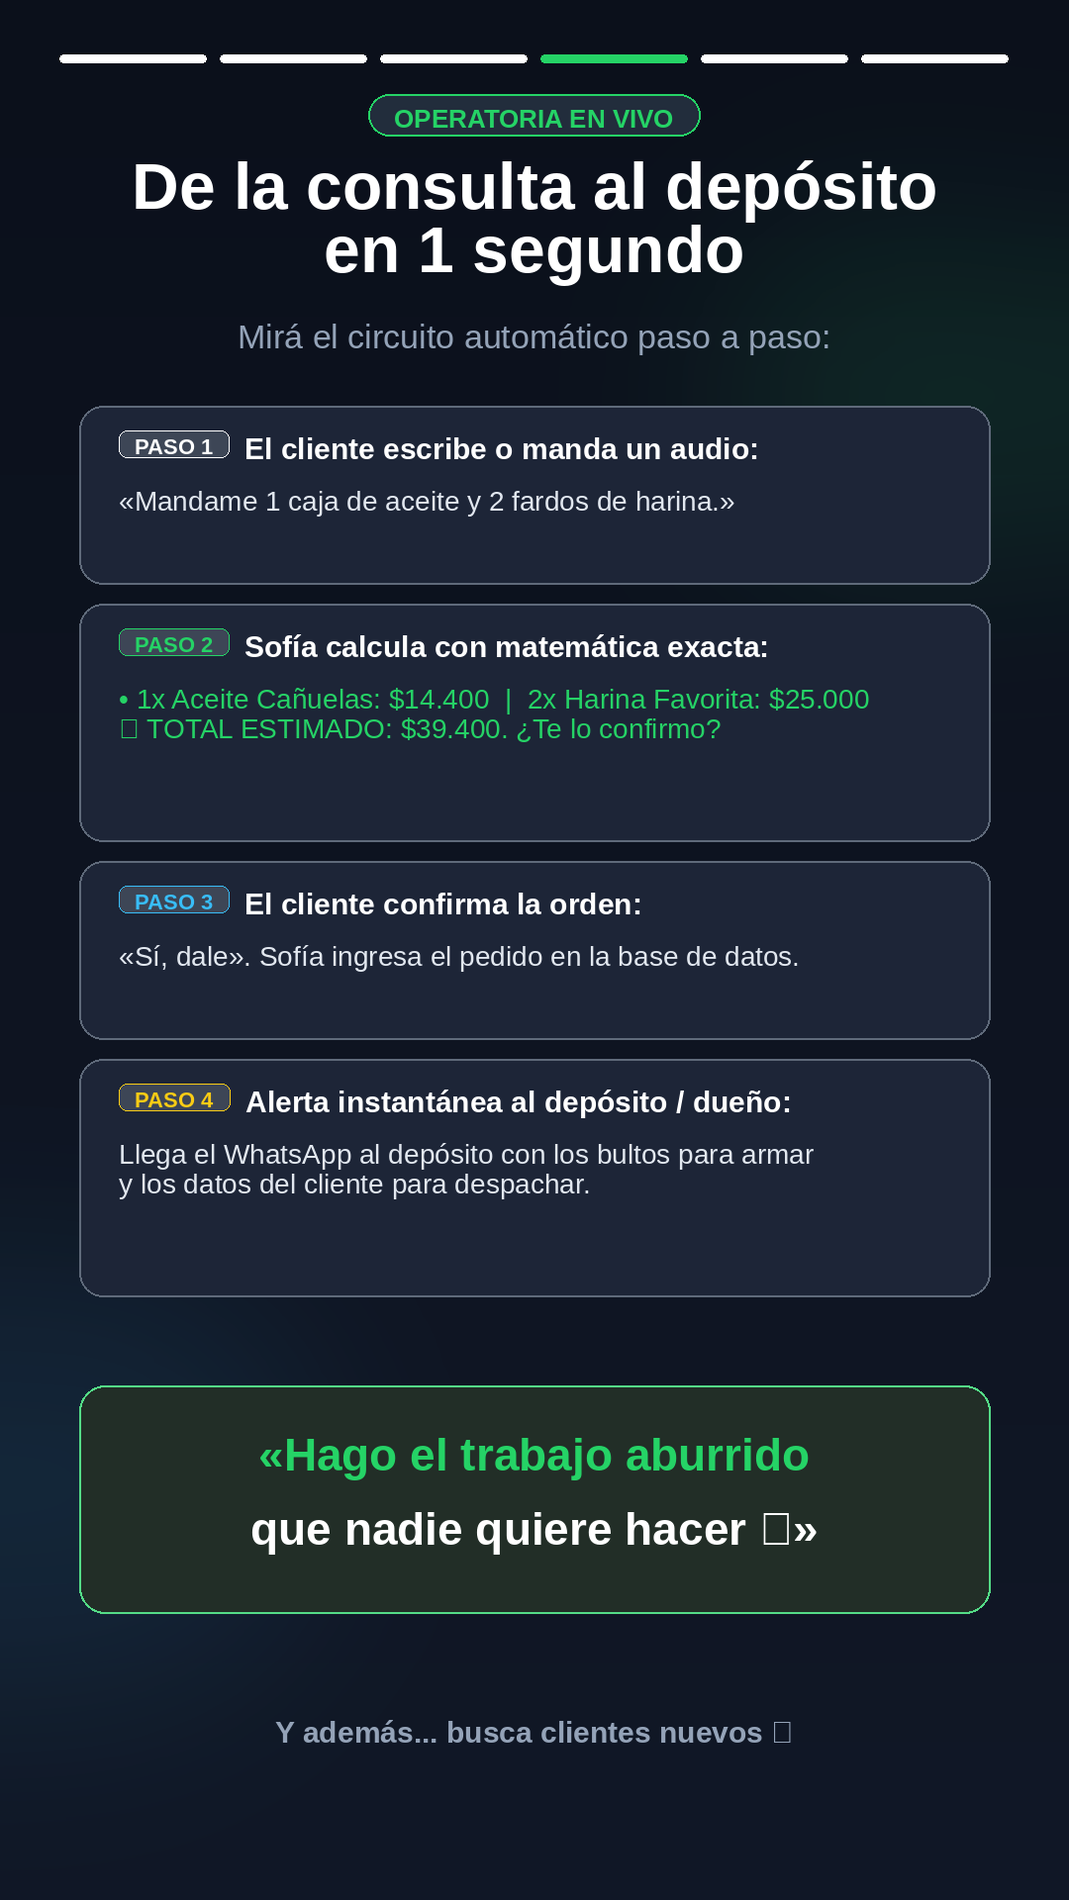
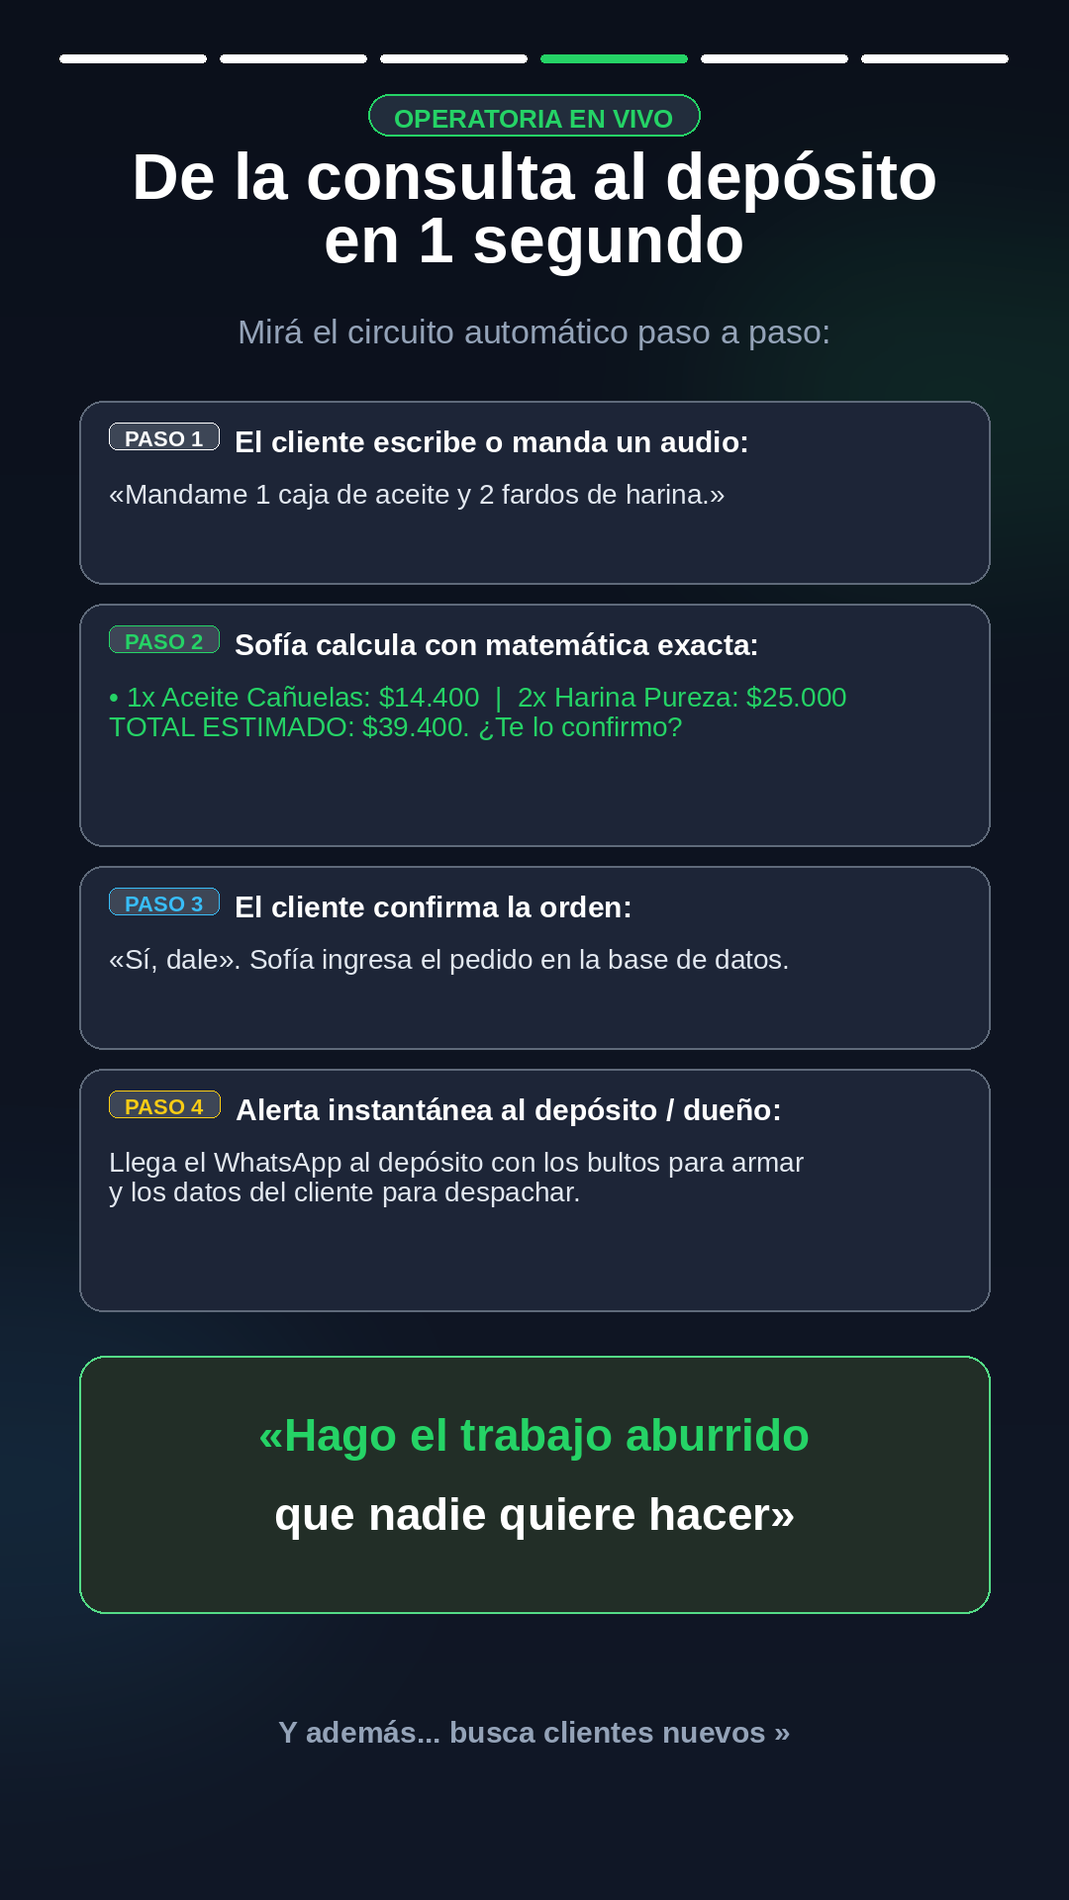
fix(marketing): fix slide text overflow, remove tofu glyphs, and add automatic friendly demo response with owner alert

diff --git a/assets/generate_social_slides.py b/assets/generate_social_slides.py
@@ -10,6 +10,7 @@ def get_fonts():
         "pill": ImageFont.truetype(FONT_BOLD, 22),
         "title_xl": ImageFont.truetype(FONT_BOLD, 66),
         "title": ImageFont.truetype(FONT_BOLD, 46),
+        "card_title": ImageFont.truetype(FONT_BOLD, 36),
         "subtitle": ImageFont.truetype(FONT_REGULAR, 34),
         "body_bold": ImageFont.truetype(FONT_BOLD, 30),
         "body": ImageFont.truetype(FONT_REGULAR, 28),
@@ -132,7 +133,7 @@ def build_slide_1():
         draw.text((120, y + 55), desc, fill=(148, 163, 184), font=fonts["body"])
         y += 165
 
-    draw.text((540, 1750), "Deslizá para ver cómo funciona 👉", fill=(37, 211, 102), font=fonts["subtitle"], anchor="mm")
+    draw.text((540, 1750), "Deslizá para ver cómo funciona »", fill=(37, 211, 102), font=fonts["subtitle"], anchor="mm")
     return img
 
 def build_slide_2():
@@ -142,8 +143,8 @@ def build_slide_2():
     draw_header_badge(draw, "EL DOLOR DE TODO NEGOCIO", color=(248, 113, 113))
     fonts = get_fonts()
     
-    draw.text((540, 220), "¿Cansado de perder ventas\nfuera de horario?", fill=(255, 255, 255), font=fonts["title_xl"], anchor="mm", align="center")
-    draw.text((540, 350), "Los 3 problemas diarios de distribuidoras y pymes:", fill=(148, 163, 184), font=fonts["subtitle"], anchor="mm")
+    draw.text((540, 210), "¿Cansado de perder ventas\nfuera de horario?", fill=(255, 255, 255), font=fonts["title_xl"], anchor="mm", align="center")
+    draw.text((540, 335), "Los 3 problemas diarios de distribuidoras y pymes:", fill=(148, 163, 184), font=fonts["subtitle"], anchor="mm")
     
     problems = [
         ("1", "Consultas sin responder de noche", "Tus clientes piden listas a las 21 hs o domingos.\nSi nadie responde rápido, le compran a otro."),
@@ -151,19 +152,19 @@ def build_slide_2():
         ("3", "Pedidos trabados o mal calculados", "Notas de voz eternas, cuentas mal hechas en papel\ny demoras para pasarle la orden al depósito.")
     ]
     
-    y = 430
+    y = 405
     for num, title, desc in problems:
-        draw.rounded_rectangle([80, y, 1000, y + 250], radius=28, fill=(24, 18, 26, 220), outline=(239, 68, 68, 160), width=2)
-        pw = draw_pill(draw, f"PROBLEMA {num}", 120, y + 35, bg=(239, 68, 68, 40), border=(239, 68, 68, 200), text_color=(252, 165, 165))
-        draw.text((120 + pw + 18, y + 36), title, fill=(252, 165, 165), font=fonts["title"])
-        draw.text((120, y + 115), desc, fill=(203, 213, 225), font=fonts["body"])
-        y += 280
+        draw.rounded_rectangle([80, y, 1000, y + 260], radius=26, fill=(24, 18, 26, 220), outline=(239, 68, 68, 160), width=2)
+        pw = draw_pill(draw, f"PROBLEMA {num}", 120, y + 26, bg=(239, 68, 68, 40), border=(239, 68, 68, 200), text_color=(252, 165, 165))
+        draw.text((120, y + 78), title, fill=(252, 165, 165), font=fonts["card_title"])
+        draw.text((120, y + 138), desc, fill=(203, 213, 225), font=fonts["body"])
+        y += 285
 
-    draw.rounded_rectangle([80, 1330, 1000, 1630], radius=28, fill=(15, 34, 25, 240), outline=(37, 211, 102, 200), width=2)
-    draw.text((540, 1400), "💡 La Solución con Sofía:", fill=(37, 211, 102), font=fonts["title"], anchor="mm")
-    draw.text((540, 1495), "Atención inmediata 24/7, cuentas exactas\ny los pedidos listos para armar en 1 segundo.", fill=(255, 255, 255), font=fonts["subtitle"], anchor="mm", align="center")
+    draw.rounded_rectangle([80, 1315, 1000, 1615], radius=26, fill=(15, 34, 25, 240), outline=(37, 211, 102, 200), width=2)
+    draw.text((540, 1385), "La Solución con Sofía:", fill=(37, 211, 102), font=fonts["title"], anchor="mm")
+    draw.text((540, 1485), "Atención inmediata 24/7, cuentas exactas\ny los pedidos listos para armar en 1 segundo.", fill=(255, 255, 255), font=fonts["subtitle"], anchor="mm", align="center")
 
-    draw.text((540, 1750), "Mirá cómo el dueño controla todo 👉", fill=(148, 163, 184), font=fonts["body_bold"], anchor="mm")
+    draw.text((540, 1750), "Mirá cómo el dueño controla todo »", fill=(148, 163, 184), font=fonts["body_bold"], anchor="mm")
     return img
 
 def build_slide_3():
@@ -173,8 +174,8 @@ def build_slide_3():
     draw_header_badge(draw, "CERO PROGRAMAS COMPLICADOS", color=(56, 189, 248))
     fonts = get_fonts()
     
-    draw.text((540, 220), "Todo el control desde tu\npropio WhatsApp", fill=(255, 255, 255), font=fonts["title_xl"], anchor="mm", align="center")
-    draw.text((540, 350), "Sin contraseñas, sin instalar nada, sin capacitar gente.", fill=(148, 163, 184), font=fonts["subtitle"], anchor="mm")
+    draw.text((540, 210), "Todo el control desde tu\npropio WhatsApp", fill=(255, 255, 255), font=fonts["title_xl"], anchor="mm", align="center")
+    draw.text((540, 335), "Sin contraseñas, sin instalar nada, sin capacitar gente.", fill=(148, 163, 184), font=fonts["subtitle"], anchor="mm")
     
     cards = [
         ("EXCEL", "1. Le mandás tu lista de precios", "Sofía procesa tu archivo en segundos, lee todos los\nproductos y cotiza siempre con tus precios al día."),
@@ -182,19 +183,19 @@ def build_slide_3():
         ("MÉTRICAS", "3. Le pedís métricas cuando quieras", "Escribís «resumen» y te canta cuántos pedidos entraron,\ncuántos clientes hablaron y el estado de la línea.")
     ]
     
-    y = 430
+    y = 405
     for tag, title, desc in cards:
-        draw.rounded_rectangle([80, y, 1000, y + 250], radius=28, fill=(17, 24, 39, 230), outline=(56, 189, 248, 160), width=2)
-        pw = draw_pill(draw, tag, 120, y + 35, bg=(56, 189, 248, 40), border=(56, 189, 248, 200), text_color=(56, 189, 248))
-        draw.text((120 + pw + 18, y + 36), title, fill=(255, 255, 255), font=fonts["title"])
-        draw.text((120, y + 115), desc, fill=(226, 232, 240), font=fonts["body"])
-        y += 280
+        draw.rounded_rectangle([80, y, 1000, y + 260], radius=26, fill=(17, 24, 39, 230), outline=(56, 189, 248, 160), width=2)
+        pw = draw_pill(draw, tag, 120, y + 26, bg=(56, 189, 248, 40), border=(56, 189, 248, 200), text_color=(56, 189, 248))
+        draw.text((120, y + 78), title, fill=(255, 255, 255), font=fonts["card_title"])
+        draw.text((120, y + 138), desc, fill=(226, 232, 240), font=fonts["body"])
+        y += 285
 
-    draw.rounded_rectangle([80, 1330, 1000, 1630], radius=28, fill=(15, 23, 42, 240), outline=(51, 65, 85, 220), width=2)
-    draw.text((540, 1400), "📱 100% en la palma de tu mano", fill=(255, 255, 255), font=fonts["title"], anchor="mm")
-    draw.text((540, 1495), "El dueño maneja la distribuidora chateando con Sofía\ncomo si fuera su asistente de máxima confianza.", fill=(148, 163, 184), font=fonts["subtitle"], anchor="mm", align="center")
+    draw.rounded_rectangle([80, 1315, 1000, 1615], radius=26, fill=(15, 23, 42, 240), outline=(51, 65, 85, 220), width=2)
+    draw.text((540, 1385), "100% en la palma de tu mano", fill=(255, 255, 255), font=fonts["title"], anchor="mm")
+    draw.text((540, 1485), "El dueño maneja la distribuidora chateando con Sofía\ncomo si fuera su asistente de máxima confianza.", fill=(148, 163, 184), font=fonts["subtitle"], anchor="mm", align="center")
 
-    draw.text((540, 1750), "Mirá cómo toma un pedido en vivo 👉", fill=(37, 211, 102), font=fonts["body_bold"], anchor="mm")
+    draw.text((540, 1750), "Mirá cómo toma un pedido en vivo »", fill=(37, 211, 102), font=fonts["body_bold"], anchor="mm")
     return img
 
 def build_slide_4():
@@ -204,30 +205,30 @@ def build_slide_4():
     draw_header_badge(draw, "OPERATORIA EN VIVO")
     fonts = get_fonts()
     
-    draw.text((540, 220), "De la consulta al depósito\nen 1 segundo", fill=(255, 255, 255), font=fonts["title_xl"], anchor="mm", align="center")
-    draw.text((540, 340), "Mirá el circuito automático paso a paso:", fill=(148, 163, 184), font=fonts["subtitle"], anchor="mm")
+    draw.text((540, 210), "De la consulta al depósito\nen 1 segundo", fill=(255, 255, 255), font=fonts["title_xl"], anchor="mm", align="center")
+    draw.text((540, 335), "Mirá el circuito automático paso a paso:", fill=(148, 163, 184), font=fonts["subtitle"], anchor="mm")
 
     steps = [
         ("PASO 1", "El cliente escribe o manda un audio:", "«Mandame 1 caja de aceite y 2 fardos de harina.»", (255, 255, 255)),
-        ("PASO 2", "Sofía calcula con matemática exacta:", "• 1x Aceite Cañuelas: $14.400  |  2x Harina Favorita: $25.000\n💰 TOTAL ESTIMADO: $39.400. ¿Te lo confirmo?", (37, 211, 102)),
+        ("PASO 2", "Sofía calcula con matemática exacta:", "• 1x Aceite Cañuelas: $14.400  |  2x Harina Pureza: $25.000\nTOTAL ESTIMADO: $39.400. ¿Te lo confirmo?", (37, 211, 102)),
         ("PASO 3", "El cliente confirma la orden:", "«Sí, dale». Sofía ingresa el pedido en la base de datos.", (56, 189, 248)),
         ("PASO 4", "Alerta instantánea al depósito / dueño:", "Llega el WhatsApp al depósito con los bultos para armar\ny los datos del cliente para despachar.", (250, 204, 21))
     ]
 
-    y = 410
+    y = 405
     for tag, step_title, step_desc, accent in steps:
-        h = 240 if "\n" in step_desc else 180
+        h = 245 if "\n" in step_desc else 185
         draw.rounded_rectangle([80, y, 1000, y + h], radius=24, fill=(15, 23, 42, 240), outline=(51, 65, 85, 200), width=2)
-        pw = draw_pill(draw, tag, 120, y + 25, bg=(30, 41, 59, 220), border=accent, text_color=accent)
-        draw.text((120 + pw + 16, y + 26), step_title, fill=(255, 255, 255), font=fonts["body_bold"])
-        draw.text((120, y + 80), step_desc, fill=accent if tag == "PASO 2" else (226, 232, 240), font=fonts["body"])
+        pw = draw_pill(draw, tag, 110, y + 22, bg=(30, 41, 59, 220), border=accent, text_color=accent)
+        draw.text((110 + pw + 16, y + 24), step_title, fill=(255, 255, 255), font=fonts["body_bold"])
+        draw.text((110, y + 78), step_desc, fill=accent if tag == "PASO 2" else (226, 232, 240), font=fonts["body"])
         y += h + 20
 
-    draw.rounded_rectangle([80, 1400, 1000, 1630], radius=26, fill=(20, 33, 25, 240), outline=(37, 211, 102, 200), width=2)
-    draw.text((540, 1470), "«Hago el trabajo aburrido", fill=(37, 211, 102), font=fonts["title"], anchor="mm")
-    draw.text((540, 1545), "que nadie quiere hacer 😅»", fill=(255, 255, 255), font=fonts["title"], anchor="mm")
+    draw.rounded_rectangle([80, 1370, 1000, 1630], radius=26, fill=(20, 33, 25, 240), outline=(37, 211, 102, 200), width=2)
+    draw.text((540, 1450), "«Hago el trabajo aburrido", fill=(37, 211, 102), font=fonts["title"], anchor="mm")
+    draw.text((540, 1530), "que nadie quiere hacer»", fill=(255, 255, 255), font=fonts["title"], anchor="mm")
 
-    draw.text((540, 1750), "Y además... busca clientes nuevos 👉", fill=(148, 163, 184), font=fonts["body_bold"], anchor="mm")
+    draw.text((540, 1750), "Y además... busca clientes nuevos »", fill=(148, 163, 184), font=fonts["body_bold"], anchor="mm")
     return img
 
 def build_slide_5():
@@ -237,8 +238,8 @@ def build_slide_5():
     draw_header_badge(draw, "PROSPECCIÓN AUTÓNOMA", color=(250, 204, 21))
     fonts = get_fonts()
     
-    draw.text((540, 220), "Sofía sale a buscar\nclientes todos los días", fill=(255, 255, 255), font=fonts["title_xl"], anchor="mm", align="center")
-    draw.text((540, 350), "Tu vendedora digital activa buscando compras:", fill=(148, 163, 184), font=fonts["subtitle"], anchor="mm")
+    draw.text((540, 210), "Sofía sale a buscar\nclientes todos los días", fill=(255, 255, 255), font=fonts["title_xl"], anchor="mm", align="center")
+    draw.text((540, 335), "Tu vendedora digital activa buscando compras:", fill=(148, 163, 184), font=fonts["subtitle"], anchor="mm")
 
     cards = [
         ("MAPS", "Rastreo en Google Maps", "Encuentra comercios, ferreterías, hoteles o negocios\nde tu zona que necesitan lo que vos vendés."),
@@ -246,19 +247,19 @@ def build_slide_5():
         ("CIERRE", "Alerta de compra directo a tu celular", "Apenas un cliente responde interesado, te avisa en vivo\npara que llames o mandes al vendedor a cerrar.")
     ]
 
-    y = 430
+    y = 405
     for tag, title, desc in cards:
-        draw.rounded_rectangle([80, y, 1000, y + 250], radius=28, fill=(17, 24, 39, 230), outline=(250, 204, 21, 150), width=2)
-        pw = draw_pill(draw, tag, 120, y + 35, bg=(250, 204, 21, 30), border=(250, 204, 21, 200), text_color=(250, 204, 21))
-        draw.text((120 + pw + 18, y + 36), title, fill=(255, 255, 255), font=fonts["title"])
-        draw.text((120, y + 115), desc, fill=(226, 232, 240), font=fonts["body"])
-        y += 280
+        draw.rounded_rectangle([80, y, 1000, y + 260], radius=26, fill=(17, 24, 39, 230), outline=(250, 204, 21, 150), width=2)
+        pw = draw_pill(draw, tag, 120, y + 26, bg=(250, 204, 21, 30), border=(250, 204, 21, 200), text_color=(250, 204, 21))
+        draw.text((120, y + 78), title, fill=(255, 255, 255), font=fonts["card_title"])
+        draw.text((120, y + 138), desc, fill=(226, 232, 240), font=fonts["body"])
+        y += 285
 
-    draw.rounded_rectangle([80, 1330, 1000, 1630], radius=28, fill=(15, 23, 42, 240), outline=(37, 211, 102, 200), width=2)
-    draw.text((540, 1400), "🛡 100% Oficial Meta Cloud API", fill=(37, 211, 102), font=fonts["title"], anchor="mm")
-    draw.text((540, 1495), "Sin riesgo de baneo ni emuladores.\nInfraestructura empresarial en la nube activa 24/7.", fill=(255, 255, 255), font=fonts["subtitle"], anchor="mm", align="center")
+    draw.rounded_rectangle([80, 1315, 1000, 1615], radius=26, fill=(15, 23, 42, 240), outline=(37, 211, 102, 200), width=2)
+    draw.text((540, 1385), "100% Oficial Meta Cloud API", fill=(37, 211, 102), font=fonts["title"], anchor="mm")
+    draw.text((540, 1485), "Sin riesgo de baneo ni emuladores.\nInfraestructura empresarial en la nube activa 24/7.", fill=(255, 255, 255), font=fonts["subtitle"], anchor="mm", align="center")
 
-    draw.text((540, 1750), "Probala gratis en vivo ahora 👉", fill=(37, 211, 102), font=fonts["body_bold"], anchor="mm")
+    draw.text((540, 1750), "Probala gratis en vivo ahora »", fill=(37, 211, 102), font=fonts["body_bold"], anchor="mm")
     return img
 
 def build_slide_6():
@@ -292,10 +293,10 @@ def build_slide_6():
         draw.text((120 + pw + 18, y + 2), desc, fill=(226, 232, 240), font=fonts["body_bold"])
         y += 75
 
-    draw.rounded_rectangle([80, 1310, 1000, 1600], radius=28, fill=(15, 23, 42, 240), outline=(51, 65, 85, 200), width=2)
-    draw.text((540, 1380), "O escribinos directo al WhatsApp:", fill=(148, 163, 184), font=fonts["body_bold"], anchor="mm")
-    draw.text((540, 1465), "+54 9 343 572-0312", fill=(56, 189, 248), font=fonts["title"], anchor="mm")
-    draw.text((540, 1540), "Sofía AI Agency • Tu socia comercial con IA", fill=(100, 116, 139), font=fonts["caption"], anchor="mm")
+    draw.rounded_rectangle([80, 1310, 1000, 1610], radius=28, fill=(15, 23, 42, 240), outline=(51, 65, 85, 200), width=2)
+    draw.text((540, 1375), "O escribinos directo al WhatsApp:", fill=(148, 163, 184), font=fonts["body_bold"], anchor="mm")
+    draw.text((540, 1455), "+54 9 343 572-0312", fill=(56, 189, 248), font=fonts["title"], anchor="mm")
+    draw.text((540, 1535), "Mandá «DEMO» y te respondemos con el video al instante", fill=(37, 211, 102), font=fonts["body_bold"], anchor="mm")
 
     draw.text((540, 1750), "Cupos limitados de implementación bonificada", fill=(250, 204, 21), font=fonts["caption"], anchor="mm")
     return img

diff --git a/tests/test_sofia.py b/tests/test_sofia.py
@@ -75,7 +75,7 @@ def test_webhook_incoming_inquiry(db, mock_whatsapp):
     assert prospect.name == "Distribuidora El Remanso"
     assert prospect.contact_name == "Carlos"
     assert prospect.city == "Colón"
-    assert prospect.status == "in_conversation"
+    assert prospect.status in ["in_conversation", "demo_requested"]
 
     # History contains both messages
     history = json.loads(prospect.conversation_history)
@@ -577,3 +577,46 @@ async def test_dual_alert_dispatch():
         mock_email.assert_awaited_once()
         assert "5493434536447" in mock_wa.call_args[1]["to_phone"]
         assert "Distribuidora Paraná" in mock_email.call_args[1]["subject"]
+
+def test_demo_request_via_meta_webhook(db, mock_whatsapp):
+    """Verify that when someone texts DEMO, Sofia sends the friendly reply and marks demo_requested."""
+    meta_payload = {
+        "object": "whatsapp_business_account",
+        "entry": [
+            {
+                "id": "2238368880345692",
+                "changes": [
+                    {
+                        "value": {
+                            "messaging_product": "whatsapp",
+                            "metadata": {"display_phone_number": "5493435720312", "phone_number_id": "1306573512540922"},
+                            "contacts": [{"profile": {"name": "Martín Distribuciones"}, "wa_id": "5493439998877"}],
+                            "messages": [
+                                {
+                                    "from": "5493439998877",
+                                    "id": "wamid.DEMO_TEST_MSG_01",
+                                    "timestamp": "1725540000",
+                                    "type": "text",
+                                    "text": {"body": "DEMO"}
+                                }
+                            ]
+                        },
+                        "field": "messages"
+                    }
+                ]
+            }
+        ]
+    }
+
+    response = client.post("/webhook", json=meta_payload)
+    assert response.status_code == 200
+    data = response.json()
+    assert data["status"] == "success"
+    assert data["demo_requested"] is True
+    assert "video demo" in data["reply"]
+    assert "gracias por escribirme" in data["reply"].lower()
+
+    # Verify prospect status in db
+    prospect = db.query(Prospect).filter(Prospect.phone == "5493439998877").first()
+    assert prospect is not None
+    assert prospect.status == "demo_requested"

diff --git a/app/routers/webhook.py b/app/routers/webhook.py
@@ -519,6 +519,49 @@ async def receive_whatsapp_webhook(
                     "meeting_confirmed": False
                 }
 
+    # 4. Check if lead is requesting a demo or asking how the service works
+    clean_lower = message.strip().lower()
+    is_demo_intent = False
+    if clean_lower in ["demo", "la demo", "ver demo", "quiero demo", "quiero la demo", "video", "video demo", "el video", "como funciona", "cómo funciona", "como es", "cómo es", "info", "informacion", "información", "mas info", "más info"]:
+        is_demo_intent = True
+    elif "demo" in clean_lower or "video demo" in clean_lower:
+        is_demo_intent = True
+    elif any(phrase in clean_lower for phrase in [
+        "como funciona", "cómo funciona", "quiero ver", "me interesa",
+        "mandame el video", "mandá el video", "pasame el video", "pasanos el video",
+        "de que se trata", "de qué se trata", "como es el servicio", "cómo es el servicio",
+        "como trabaja sofia", "cómo trabaja sofia", "como trabaja sofía", "cómo trabaja sofía"
+    ]):
+        is_demo_intent = True
+
+    if is_demo_intent:
+        prospect.status = "demo_requested"
+        contact_str = f" {prospect.contact_name}" if prospect.contact_name else ""
+        demo_reply = (
+            f"¡Hola{contact_str}! Qué bueno que te interese ver cómo funciona Sofía. "
+            f"En breve nuestro asesor te va a enviar el video demo para que veas el sistema en acción. "
+            f"¡Muchas gracias por escribirme!"
+        )
+        history.append({"sender": "ai", "text": demo_reply, "timestamp": datetime.now(timezone.utc).isoformat()})
+        prospect.conversation_history = json.dumps(history, ensure_ascii=False)
+        prospect.updated_at = datetime.now(timezone.utc)
+        db.commit()
+
+        asyncio.create_task(whatsapp.notify_owner_demo_requested(
+            client_name=prospect.name,
+            contact_name=prospect.contact_name,
+            phone=clean_phone,
+            incoming_text=message
+        ))
+
+        await whatsapp.send_whatsapp_message(to_phone=clean_phone, text=demo_reply)
+        return {
+            "status": "success",
+            "demo_requested": True,
+            "reply": demo_reply,
+            "meeting_confirmed": False
+        }
+
     # Generate response via AI Brain
     ai_response, is_meeting_confirmed, meeting_details = await brain.generate_ai_response(
         incoming_text=message.strip(),

diff --git a/app/services/whatsapp.py b/app/services/whatsapp.py
@@ -363,3 +363,28 @@ async def notify_owner_order_confirmed(
         )
     except Exception as e:
         logger.error(f"Error dispatching order email alert: {e}")
+
+async def notify_owner_demo_requested(
+    client_name: str,
+    contact_name: Optional[str],
+    phone: str,
+    incoming_text: str
+) -> None:
+    """
+    Dispatches instant notification to Javier when someone requests a demo or asks how the service works via WhatsApp.
+    """
+    alert_phone = settings.WHATSAPP_ALERT_PHONE or "5493434536447"
+    contact_str = contact_name or "Contacto"
+
+    wa_text = (
+        f"🔔 *¡NUEVA SOLICITUD DE DEMO POR WHATSAPP!* 🎥\n\n"
+        f"👤 *Contacto:* {contact_str}\n"
+        f"📱 *Teléfono:* +{phone}\n"
+        f"💬 *Mensaje:* «{incoming_text.strip()}»\n\n"
+        f"👉 *Acción sugerida:* Enviarle el video demo de 86s o llamarlo:\n"
+        f"https://wa.me/{phone}"
+    )
+
+    await asyncio.sleep(1.0)
+    await send_whatsapp_message(to_phone=alert_phone, text=wa_text)
+    logger.info(f"Demo request alert dispatched to owner ({alert_phone}) for {phone}")
